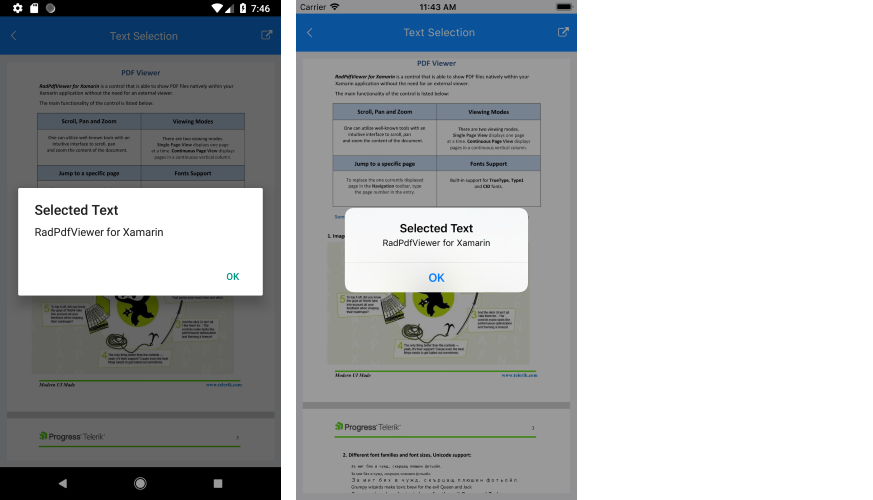
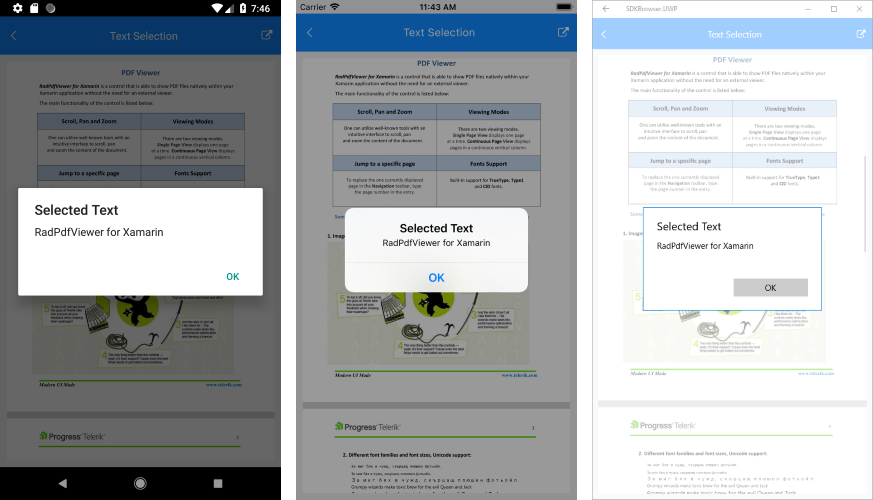
Updated PdfViewer selection

diff --git a/controls/pdfviewer/pdfviewer-text-selection.md b/controls/pdfviewer/pdfviewer-text-selection.md
@@ -9,6 +9,8 @@ slug: pdfviewer-text-selection
 
 With R3 2019 release of Telerik UI for Xamarin RadPdfViewer supports text selection functionality - the end user can initiate a selection action through the hold gesture over the text. The selected text is marked with a different background color and two drag handles are available to the user to make it easier to modify the current selection. In addition, as soon as the selection is made, PdfViewer displays a customizable SelectionMenu with a default Copy command to allow the user to retrieve the selected text.
 
+>note On UWP the text selection is initialized through mouse click and drag actions - continuous drag extends the current selection. SelectionMenu can be displayed on UWP through right-click over the selected text.
+
 ![PdfViewer Text Selection](images/pdfviewer-defaultselection.png)
 
 This topic will go through the text selection feature in details as well as the customization options it provides.
@@ -27,6 +29,8 @@ Through the **MenuItems** collection you could modify the listed in the selectio
 
 * **Text**: Sets the text shown in the SelectionMenu;
 * **Command**: Defines the Command that is executed when tapping on that menu item. The parameter that you will receive in the Execute method will be of type *SelectionCommandContext* and through it you can retrieve the selected text.
+
+>note On UWP you cannot customize the look of the SelectionMenu as it is the default UWP context menu. Still, you can modify the menu items inside it. 
 	
 ## Example
 
